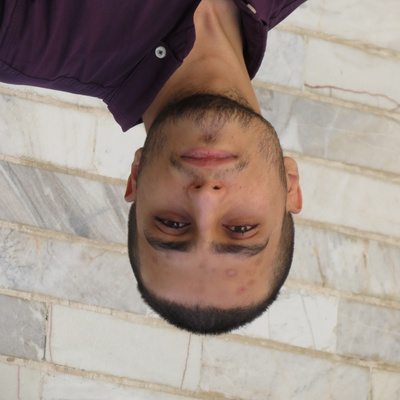
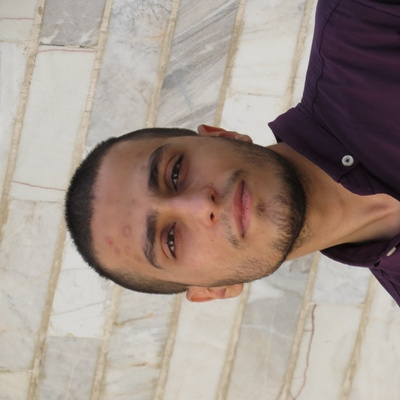
V20 Release: Rotate profile photo 180 degrees and update cache tag to v=20.0

diff --git a/index.html b/index.html
@@ -105,7 +105,7 @@
       <div class="hero-content fade-in-up">
         <div class="avatar-wrapper" data-tilt data-tilt-max="15">
           <div class="avatar-glow-ring"></div>
-          <img src="assets/avatar.jpg?v=19.0" onerror="this.onerror=null; this.src='https://github.com/tahamajs.png';" alt="Taha Majlesi" class="avatar-img">
+          <img src="assets/avatar.jpg?v=20.0" onerror="this.onerror=null; this.src='https://github.com/tahamajs.png';" alt="Taha Majlesi" class="avatar-img">
         </div>
         
         <div class="badge-pill">
